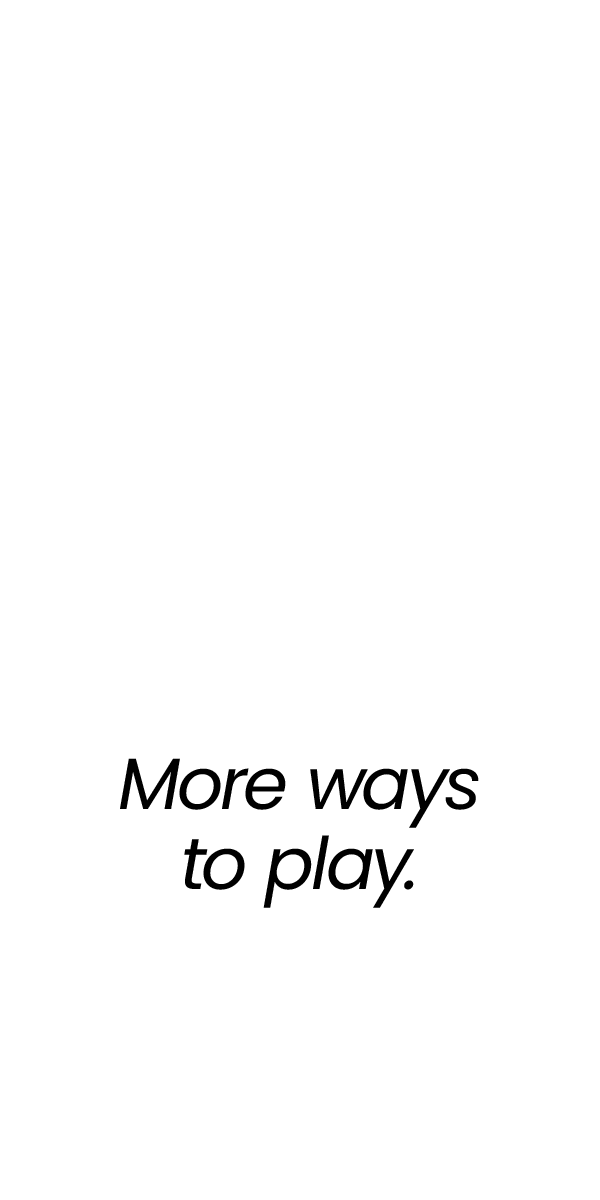
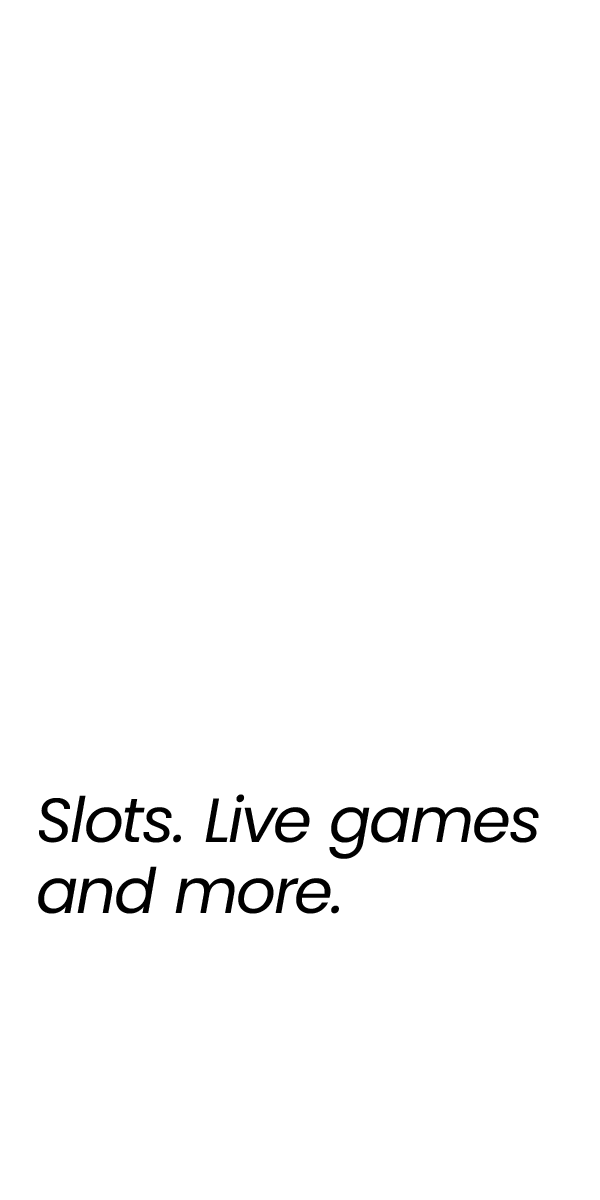
on

Changed region(s): [[0.06, 0.6167, 0.9, 0.7708]]

diff --git a/deploy/prechurnNovelty_728x90/index.html b/deploy/prechurnNovelty_728x90/index.html
@@ -12,7 +12,7 @@
   <script type="text/javascript">
     var clickTag = "http://www.google.com";
   </script>
-  <style>html,body,div,span,applet,object,iframe,h1,h2,h3,h4,h5,h6,p,blockquote,pre,a,abbr,acronym,address,big,cite,code,del,dfn,em,img,ins,kbd,q,s,samp,small,strike,strong,sub,sup,tt,var,b,u,i,center,dl,dt,dd,ol,ul,li,fieldset,form,label,legend,table,caption,tbody,tfoot,thead,tr,th,td,article,aside,canvas,details,embed,figure,figcaption,footer,header,hgroup,menu,nav,output,ruby,section,summary,time,mark,audio,video{margin:0;padding:0;border:0;font-size:100%;font:inherit;vertical-align:baseline}article,aside,details,figcaption,figure,footer,header,hgroup,menu,nav,section{display:block}body{line-height:1}ol,ul{list-style:none}blockquote,q{quotes:none}blockquote:before,blockquote:after,q:before,q:after{content:"";content:none}table{border-collapse:collapse;border-spacing:0}#legalBtn:hover~#legalContent{opacity:1}#legalContent{width:100%;height:100%;background-color:#fff;-webkit-transform:translate(0px, 0px);-moz-transform:translate(0px, 0px);-ms-transform:translate(0px, 0px);transform:translate(0px, 0px);backface-visibility:hidden;perspective:1000px;position:absolute;color:#000;font-family:"Helvetica Neue",Helvetica,Arial,sans-serif;padding:10px;font-size:9px;z-index:900;opacity:0;font-weight:normal;line-height:11px;transition:opacity .3s;pointer-events:none;border:1px solid #000;padding-top:10px}#legalBtn{-webkit-transform:translate(0px, 0px);-moz-transform:translate(0px, 0px);-ms-transform:translate(0px, 0px);transform:translate(0px, 0px);backface-visibility:hidden;perspective:1000px;position:absolute;opacity:0;width:36px;height:25px;z-index:11;background-color:red;display:none}#olg{opacity:0}#bluewedge2,#redwedge2{visibility:hidden}#bluewedge1,#redwedge1{transform-origin:0% 100% !important;-webkit-transform:translate(0px, 0px) scale(1, 0);-moz-transform:translate(0px, 0px) scale(1, 0);-ms-transform:translate(0px, 0px) scale(1, 0);transform:translate(0px, 0px) scale(1, 0)}html,body{box-sizing:border-box;margin:0;padding:0}*,*:before,*:after{box-sizing:inherit}a{color:inherit}body{margin:0;padding:0}#legalContent{display:flex;align-items:center;justify-content:center;text-align:center}#banner{background-color:#fff;width:300px;height:250px;overflow:hidden;position:relative;-webkit-text-size-adjust:100%;opacity:1;-webkit-backface-visibility:hidden;-webkit-transform:translateZ(0) scale(1, 1);cursor:pointer}#banner>a{width:inherit;height:inherit}canvas,.text,.frame,.outline,img{position:absolute}.outline{z-index:99;width:inherit;height:inherit;border:1px solid #000;pointer-events:none;position:absolute}.frame{width:inherit;height:inherit;opacity:0;top:0;overflow:hidden;left:0}.shadow{filter:drop-shadow(3px 3px 8px rgba(0, 0, 0, 0.5))}.retina{-webkit-transform:translate(0px, 0px) scale(0.5, 0.5);-moz-transform:translate(0px, 0px) scale(0.5, 0.5);-ms-transform:translate(0px, 0px) scale(0.5, 0.5);transform:translate(0px, 0px) scale(0.5, 0.5);backface-visibility:hidden;perspective:1000px;position:absolute;transform-origin:0 0;image-rendering:-webkit-optimize-contrast}.pointer-events-none{pointer-events:none}.ypy-all div{overflow:hidden;width:30px;height:19px;position:absolute}.ypy_all img{-webkit-transform:translate(0px, 20px) scale(0.5, 0.5);-moz-transform:translate(0px, 20px) scale(0.5, 0.5);-ms-transform:translate(0px, 20px) scale(0.5, 0.5);transform:translate(0px, 20px) scale(0.5, 0.5);backface-visibility:hidden;perspective:1000px;position:absolute}.ypy_all_1{-webkit-transform:translate(0px, 0px);-moz-transform:translate(0px, 0px);-ms-transform:translate(0px, 0px);transform:translate(0px, 0px);backface-visibility:hidden;perspective:1000px;position:absolute}.ypy_all_2{-webkit-transform:translate(11px, 0px);-moz-transform:translate(11px, 0px);-ms-transform:translate(11px, 0px);transform:translate(11px, 0px);backface-visibility:hidden;perspective:1000px;position:absolute}.ypy_all_3{-webkit-transform:translate(25px, 0px);-moz-transform:translate(25px, 0px);-ms-transform:translate(25px, 0px);transform:translate(25px, 0px);backface-visibility:hidden;perspective:1000px;position:absolute}.ypy_all_4{-webkit-transform:translate(43px, 0px);-moz-transform:translate(43px, 0px);-ms-transform:translate(43px, 0px);transform:translate(43px, 0px);backface-visibility:hidden;perspective:1000px;position:absolute}.ypy_all_5{-webkit-transform:translate(58px, 0px);-moz-transform:translate(58px, 0px);-ms-transform:translate(58px, 0px);transform:translate(58px, 0px);backface-visibility:hidden;perspective:1000px;position:absolute}.ypy_all_6{-webkit-transform:translate(69px, 0px);-moz-transform:translate(69px, 0px);-ms-transform:translate(69px, 0px);transform:translate(69px, 0px);backface-visibility:hidden;perspective:1000px;position:absolute}.ypy_all_7{-webkit-transform:translate(85px, 0px);-moz-transform:translate(85px, 0px);-ms-transform:translate(85px, 0px);transform:translate(85px, 0px);backface-visibility:hidden;perspective:1000px;position:absolute}.ypy_all_8{-webkit-transform:translate(102px, 0px);-moz-transform:translate(102px, 0px);-ms-transform:translate(102px, 0px);transform:translate(102px, 0px);backface-visibility:hidden;perspective:1000px;position:absolute}.ypy_all_9{-webkit-transform:translate(113px, 0px);-moz-transform:translate(113px, 0px);-ms-transform:translate(113px, 0px);transform:translate(113px, 0px);backface-visibility:hidden;perspective:1000px;position:absolute}.ypy_all_10{-webkit-transform:translate(128px, 0px);-moz-transform:translate(128px, 0px);-ms-transform:translate(128px, 0px);transform:translate(128px, 0px);backface-visibility:hidden;perspective:1000px;position:absolute}#banner{width:728px;height:90px}#legalBtn{-webkit-transform:translate(650px, 0px);-moz-transform:translate(650px, 0px);-ms-transform:translate(650px, 0px);transform:translate(650px, 0px);backface-visibility:hidden;perspective:1000px;position:absolute;width:80px}#legalContent{padding:0;padding-left:5px}#olg{width:100px;height:69px;-webkit-transform:translate(0px, 30px);-moz-transform:translate(0px, 30px);-ms-transform:translate(0px, 30px);transform:translate(0px, 30px);backface-visibility:hidden;perspective:1000px;position:absolute}.ypy-all{transform:translate(610px, 8px) scale(1.85)}.device{display:none}.frame2,.end_bg{display:none}#banner{background-color:#ffe600}.pill_1{top:-23px;left:129px}.pill_2{top:71px;left:74px}.pill_3{top:78px;left:624px}.pill_4{top:0px;left:0px}</style>
+  <style>html,body,div,span,applet,object,iframe,h1,h2,h3,h4,h5,h6,p,blockquote,pre,a,abbr,acronym,address,big,cite,code,del,dfn,em,img,ins,kbd,q,s,samp,small,strike,strong,sub,sup,tt,var,b,u,i,center,dl,dt,dd,ol,ul,li,fieldset,form,label,legend,table,caption,tbody,tfoot,thead,tr,th,td,article,aside,canvas,details,embed,figure,figcaption,footer,header,hgroup,menu,nav,output,ruby,section,summary,time,mark,audio,video{margin:0;padding:0;border:0;font-size:100%;font:inherit;vertical-align:baseline}article,aside,details,figcaption,figure,footer,header,hgroup,menu,nav,section{display:block}body{line-height:1}ol,ul{list-style:none}blockquote,q{quotes:none}blockquote:before,blockquote:after,q:before,q:after{content:"";content:none}table{border-collapse:collapse;border-spacing:0}#legalBtn:hover~#legalContent{opacity:1}#legalContent{width:100%;height:100%;background-color:#fff;-webkit-transform:translate(0px, 0px);-moz-transform:translate(0px, 0px);-ms-transform:translate(0px, 0px);transform:translate(0px, 0px);backface-visibility:hidden;perspective:1000px;position:absolute;color:#000;font-family:"Helvetica Neue",Helvetica,Arial,sans-serif;padding:10px;font-size:9px;z-index:900;opacity:0;font-weight:normal;line-height:11px;transition:opacity .3s;pointer-events:none;border:1px solid #000;padding-top:10px}#legalBtn{-webkit-transform:translate(0px, 0px);-moz-transform:translate(0px, 0px);-ms-transform:translate(0px, 0px);transform:translate(0px, 0px);backface-visibility:hidden;perspective:1000px;position:absolute;opacity:0;width:36px;height:25px;z-index:11;background-color:red;display:none}#olg{opacity:0}#bluewedge2,#redwedge2{visibility:hidden}#bluewedge1,#redwedge1{transform-origin:0% 100% !important;-webkit-transform:translate(0px, 0px) scale(1, 0);-moz-transform:translate(0px, 0px) scale(1, 0);-ms-transform:translate(0px, 0px) scale(1, 0);transform:translate(0px, 0px) scale(1, 0)}html,body{box-sizing:border-box;margin:0;padding:0}*,*:before,*:after{box-sizing:inherit}a{color:inherit}body{margin:0;padding:0}#legalContent{display:flex;align-items:center;justify-content:center;text-align:center}#banner{background-color:#fff;width:300px;height:250px;overflow:hidden;position:relative;-webkit-text-size-adjust:100%;opacity:1;-webkit-backface-visibility:hidden;-webkit-transform:translateZ(0) scale(1, 1);cursor:pointer}#banner>a{width:inherit;height:inherit}canvas,.text,.frame,.outline,img{position:absolute}.outline{z-index:99;width:inherit;height:inherit;border:1px solid #000;pointer-events:none;position:absolute}.frame{width:inherit;height:inherit;opacity:0;top:0;overflow:hidden;left:0}.shadow{filter:drop-shadow(3px 3px 8px rgba(0, 0, 0, 0.5))}.retina{-webkit-transform:translate(0px, 0px) scale(0.5, 0.5);-moz-transform:translate(0px, 0px) scale(0.5, 0.5);-ms-transform:translate(0px, 0px) scale(0.5, 0.5);transform:translate(0px, 0px) scale(0.5, 0.5);backface-visibility:hidden;perspective:1000px;position:absolute;transform-origin:0 0;image-rendering:-webkit-optimize-contrast}.pointer-events-none{pointer-events:none}.ypy-all div{overflow:hidden;width:30px;height:19px;position:absolute}.ypy_all img{-webkit-transform:translate(0px, 20px) scale(0.5, 0.5);-moz-transform:translate(0px, 20px) scale(0.5, 0.5);-ms-transform:translate(0px, 20px) scale(0.5, 0.5);transform:translate(0px, 20px) scale(0.5, 0.5);backface-visibility:hidden;perspective:1000px;position:absolute}.ypy_all_1{-webkit-transform:translate(0px, 0px);-moz-transform:translate(0px, 0px);-ms-transform:translate(0px, 0px);transform:translate(0px, 0px);backface-visibility:hidden;perspective:1000px;position:absolute}.ypy_all_2{-webkit-transform:translate(11px, 0px);-moz-transform:translate(11px, 0px);-ms-transform:translate(11px, 0px);transform:translate(11px, 0px);backface-visibility:hidden;perspective:1000px;position:absolute}.ypy_all_3{-webkit-transform:translate(25px, 0px);-moz-transform:translate(25px, 0px);-ms-transform:translate(25px, 0px);transform:translate(25px, 0px);backface-visibility:hidden;perspective:1000px;position:absolute}.ypy_all_4{-webkit-transform:translate(43px, 0px);-moz-transform:translate(43px, 0px);-ms-transform:translate(43px, 0px);transform:translate(43px, 0px);backface-visibility:hidden;perspective:1000px;position:absolute}.ypy_all_5{-webkit-transform:translate(58px, 0px);-moz-transform:translate(58px, 0px);-ms-transform:translate(58px, 0px);transform:translate(58px, 0px);backface-visibility:hidden;perspective:1000px;position:absolute}.ypy_all_6{-webkit-transform:translate(69px, 0px);-moz-transform:translate(69px, 0px);-ms-transform:translate(69px, 0px);transform:translate(69px, 0px);backface-visibility:hidden;perspective:1000px;position:absolute}.ypy_all_7{-webkit-transform:translate(85px, 0px);-moz-transform:translate(85px, 0px);-ms-transform:translate(85px, 0px);transform:translate(85px, 0px);backface-visibility:hidden;perspective:1000px;position:absolute}.ypy_all_8{-webkit-transform:translate(102px, 0px);-moz-transform:translate(102px, 0px);-ms-transform:translate(102px, 0px);transform:translate(102px, 0px);backface-visibility:hidden;perspective:1000px;position:absolute}.ypy_all_9{-webkit-transform:translate(113px, 0px);-moz-transform:translate(113px, 0px);-ms-transform:translate(113px, 0px);transform:translate(113px, 0px);backface-visibility:hidden;perspective:1000px;position:absolute}.ypy_all_10{-webkit-transform:translate(128px, 0px);-moz-transform:translate(128px, 0px);-ms-transform:translate(128px, 0px);transform:translate(128px, 0px);backface-visibility:hidden;perspective:1000px;position:absolute}#banner{width:728px;height:90px}#legalBtn{-webkit-transform:translate(650px, 0px);-moz-transform:translate(650px, 0px);-ms-transform:translate(650px, 0px);transform:translate(650px, 0px);backface-visibility:hidden;perspective:1000px;position:absolute;width:80px}#legalContent{padding:0;padding-left:5px}#olg{width:100px;height:69px;-webkit-transform:translate(0px, 30px);-moz-transform:translate(0px, 30px);-ms-transform:translate(0px, 30px);transform:translate(0px, 30px);backface-visibility:hidden;perspective:1000px;position:absolute}.ypy-all{transform:translate(610px, 8px) scale(1.85)}.device{display:none}.frame2,.end_bg{display:none}#banner{background-color:#ffe600}.pill_1{top:-23px;left:129px}.pill_2{top:71px;left:74px}.pill_3{top:78px;left:624px}.pill_4{top:0px;left:0px}.hero{display:none}.frame1{background-color:#a56bfe}</style>
 
   <script type="text/javascript">
     window.universalBanner = {
@@ -29,7 +29,7 @@
   <div class="outline"></div>
 
   <div class="frame frame1">
-    <!-- <img class="retina" src="1.jpg" /> -->
+    <!-- <img class="retina" src="f1.png" /> -->
     <img class="hero" src="hero.jpg" />
     <img class="rotate pill pill_1" src="pill_1.png" />
     <img class="rotate pill pill_2" src="pill_2.png" />
@@ -2329,6 +2329,6 @@
   });
 </script>
 
-  <script>(()=>{CustomEase.create("custom","M0,0 C0.14,0 0.234,0.438 0.264,0.561 0.305,0.728 0.4,1.172 0.55,1.172 0.652,1.172 0.722,1.102 0.77,1.024 0.834,0.93 0.89,0.946 0.916,0.946 0.952,0.946 1,1 1,1 ");function r(){TweenLite.set("#olg",{opacity:1});let t=new TimelineMax({}),e=new TimelineMax({});return e.to("#bluewedge1",{duration:.5,ease:"power1.inOut",scaleY:1,scale:1,x:0,y:0},0),e.to("#redwedge1",{duration:.8,ease:"power1.inOut",scaleY:1,scale:1,x:0,y:0},0).from("#group-o",{duration:1,y:200,ease:"custom"},0).from("#group-l",{duration:1,y:200,ease:"custom"},.1).from("#group-g",{duration:1,y:200,ease:"custom"},.2).from("#group-o",{duration:.8,scale:.4,ease:"power1.out"},.3).from("#group-l",{duration:.8,scale:.4,ease:"power1.out"},.4).from("#group-g",{duration:.8,scale:.4,ease:"power1.out"},.5).from("#letter-o",{duration:.25,scale:0,ease:"back.out(2)",svgOrigin:"28pt 75pt"},.9).from("#letter-l",{duration:.25,scale:0,ease:"back.out(2)",svgOrigin:"55pt 75pt"},1).from("#letter-g",{duration:.25,scale:0,ease:"back.out(2)",svgOrigin:"80pt 75pt"},1.1),document.getElementById("logo_static")&&t.to("#logo_static",{duration:.3,opacity:0,y:"+=50"},"+=.3"),t.add(e),t}var s=document.getElementById("banner"),x={w:s.offsetWidth,h:s.offsetHeight};gsap.defaults({ease:"power3.out"});function d(t){document.querySelectorAll(t).forEach(o=>{let n=-o.width*1/2,a=-o.height*1/2;o.style.transformOrigin="50% 50%",o.style.transform=`translate(${n}px, ${a}px) scale(1) rotate(0deg)`})}function y(){let t=new TimelineMax;t.add("spin"),t.set(".hide-until",{visibility:"visible"},"spin");for(let e=1;e<11;e++){let o=e*20,n=e/11*1.6;t.to(`.ypy-all .ypy_all_${e} img`,{ease:"back.inOut",y:(e-1)*-20-2,duration:n},"spin")}return t}function c(){let t=new TimelineMax({onComplete:()=>{document.getElementById("legalBtn")&&TweenLite.set("#legalBtn",{display:"block"})}});return t.set(".frame1",{opacity:1}),t}function u({tl:t,tl_device:e}={tl:null,tl_device:null}){t.add("end","+=0.3"),t.from(".end_text_olg",{duration:.3,opacity:0},"end"),t.add(y(),"end"),e&&t.add(e,"end"),t.from([".end_cta",".legal"],{duration:.3,opacity:0}),t.to(".olg",{duration:.3,y:"+=50",opacity:0}),t.add(r())}function l({tl:t,read:e,withText1:o,withText2:n}){let a=[".text_1"];t.add("t1"),o&&(typeof o=="string"?a.push(o):t.add(o,"t1")),t.from(a,{duration:.3,opacity:0},"t1"),t.to(".text_1",{duration:.3,opacity:0},`+=${e.t1}`),t.from(".text_2",{duration:.3,opacity:0});let i=[".text_2"];t.add("t2_end",`+=${e.t2}`),n&&(typeof n=="string"?(i.push(n),t.to(i,{duration:.3,opacity:0},"t2_end")):t.add(n,"t2_end"))}var f={t1:1.6,t2:3},p=()=>{let t=c();return d(".rotate"),TweenLite.from(".pill",{duration:2.3,rotation:30,top:-50,opacity:0}),t.from(".ypy",{stagger:.3,duration:.5,top:"-=100",opacity:0,ease:"power3.out"},"+=.3"),t.from(".frame2",{duration:.5,opacity:0},"+=.6"),l({tl:t,read:f,withText1:".device",withText2:new TimelineMax().from(".end_bg",{duration:.3,opacity:0})}),u({tl:t,tl_device:new TimelineMax().from(".end_device",{duration:.5,opacity:0})}),t};p();})();
+  <script>(()=>{CustomEase.create("custom","M0,0 C0.14,0 0.234,0.438 0.264,0.561 0.305,0.728 0.4,1.172 0.55,1.172 0.652,1.172 0.722,1.102 0.77,1.024 0.834,0.93 0.89,0.946 0.916,0.946 0.952,0.946 1,1 1,1 ");function r(){TweenLite.set("#olg",{opacity:1});let t=new TimelineMax({}),e=new TimelineMax({});return e.to("#bluewedge1",{duration:.5,ease:"power1.inOut",scaleY:1,scale:1,x:0,y:0},0),e.to("#redwedge1",{duration:.8,ease:"power1.inOut",scaleY:1,scale:1,x:0,y:0},0).from("#group-o",{duration:1,y:200,ease:"custom"},0).from("#group-l",{duration:1,y:200,ease:"custom"},.1).from("#group-g",{duration:1,y:200,ease:"custom"},.2).from("#group-o",{duration:.8,scale:.4,ease:"power1.out"},.3).from("#group-l",{duration:.8,scale:.4,ease:"power1.out"},.4).from("#group-g",{duration:.8,scale:.4,ease:"power1.out"},.5).from("#letter-o",{duration:.25,scale:0,ease:"back.out(2)",svgOrigin:"28pt 75pt"},.9).from("#letter-l",{duration:.25,scale:0,ease:"back.out(2)",svgOrigin:"55pt 75pt"},1).from("#letter-g",{duration:.25,scale:0,ease:"back.out(2)",svgOrigin:"80pt 75pt"},1.1),document.getElementById("logo_static")&&t.to("#logo_static",{duration:.3,opacity:0,y:"+=50"},"+=.3"),t.add(e),t}var s=document.getElementById("banner"),_={w:s.offsetWidth,h:s.offsetHeight};gsap.defaults({ease:"power3.out"});function c(t){document.querySelectorAll(t).forEach(o=>{let n=-o.width*1/2,a=-o.height*1/2;o.style.transformOrigin="50% 50%",o.style.transform=`translate(${n}px, ${a}px) scale(1) rotate(0deg)`})}function p(){let t=new TimelineMax;t.add("spin"),t.set(".hide-until",{visibility:"visible"},"spin");for(let e=1;e<11;e++){let o=e*20,n=e/11*1.6;t.to(`.ypy-all .ypy_all_${e} img`,{ease:"back.inOut",y:(e-1)*-20-2,duration:n},"spin")}return t}function d(){let t=new TimelineMax({onComplete:()=>{document.getElementById("legalBtn")&&TweenLite.set("#legalBtn",{display:"block"})}});return t.set(".frame1",{opacity:1}),t}function u({tl:t,tl_device:e}={tl:null,tl_device:null}){t.add("end","+=0.3"),t.from(".end_text_olg",{duration:.3,opacity:0},"end"),t.add(p(),"end"),e&&t.add(e,"end"),t.from([".end_cta",".legal"],{duration:.3,opacity:0}),t.to(".olg",{duration:.3,y:"+=50",opacity:0}),t.add(r())}function l({tl:t,read:e,withText1:o,withText2:n}){let a=[".text_1"];t.add("t1"),o&&(typeof o=="string"?a.push(o):t.add(o,"t1")),t.from(a,{duration:.3,opacity:0},"t1"),t.to(".text_1",{duration:.3,opacity:0},`+=${e.t1}`),t.from(".text_2",{duration:.3,opacity:0});let i=[".text_2"];t.add("t2_end",`+=${e.t2}`),n&&(typeof n=="string"?(i.push(n),t.to(i,{duration:.3,opacity:0},"t2_end")):t.add(n,"t2_end"))}var y={t1:1.6,t2:3};function f(){let t=d();return c(".rotate"),TweenLite.from(".pill",{duration:2.3,rotation:30,top:-50,opacity:0}),t.from(".ypy",{stagger:.3,duration:.5,top:"-=100",opacity:0,ease:"power3.out"},"+=.3"),t.to(".ypy",{duration:.5,opacity:0},"+=.6"),l({tl:t,read:y,withText1:".end_device",withText2:new TimelineMax().to([".text_2",".end_device"],{duration:.3,opacity:0})}),u({tl:t,tl_device:new TimelineMax().from(".end_device",{duration:.5,opacity:0})}),t}f();})();
 </script>
 </html>

diff --git a/deploy/prechurnNovelty_160x600/index.html b/deploy/prechurnNovelty_160x600/index.html
@@ -29,7 +29,7 @@
   <div class="outline"></div>
 
   <div class="frame frame1">
-    <!-- <img class="retina" src="1.jpg" /> -->
+    <!-- <img class="retina" src="f1.png" /> -->
     <img class="hero" src="hero.jpg" />
     <img class="rotate pill pill_1" src="pill_1.png" />
     <img class="rotate pill pill_2" src="pill_2.png" />

diff --git a/deploy/prechurnNovelty_300x250/index.html b/deploy/prechurnNovelty_300x250/index.html
@@ -29,7 +29,7 @@
   <div class="outline"></div>
 
   <div class="frame frame1">
-    <!-- <img class="retina" src="1.jpg" /> -->
+    <!-- <img class="retina" src="f1.png" /> -->
     <img class="hero" src="hero.jpg" />
     <img class="rotate pill pill_1" src="pill_1.png" />
     <img class="rotate pill pill_2" src="pill_2.png" />

diff --git a/deploy/prechurnNovelty_300x600/index.html b/deploy/prechurnNovelty_300x600/index.html
@@ -29,7 +29,7 @@
   <div class="outline"></div>
 
   <div class="frame frame1">
-    <!-- <img class="retina" src="1.jpg" /> -->
+    <!-- <img class="retina" src="f1.png" /> -->
     <img class="hero" src="hero.jpg" />
     <img class="rotate pill pill_1" src="pill_1.png" />
     <img class="rotate pill pill_2" src="pill_2.png" />

diff --git a/deploy/prechurnNovelty_970x250/index.html b/deploy/prechurnNovelty_970x250/index.html
@@ -29,7 +29,7 @@
   <div class="outline"></div>
 
   <div class="frame frame1">
-    <!-- <img class="retina" src="1.jpg" /> -->
+    <!-- <img class="retina" src="f1.png" /> -->
     <img class="hero" src="hero.jpg" />
     <img class="rotate pill pill_1" src="pill_1.png" />
     <img class="rotate pill pill_2" src="pill_2.png" />